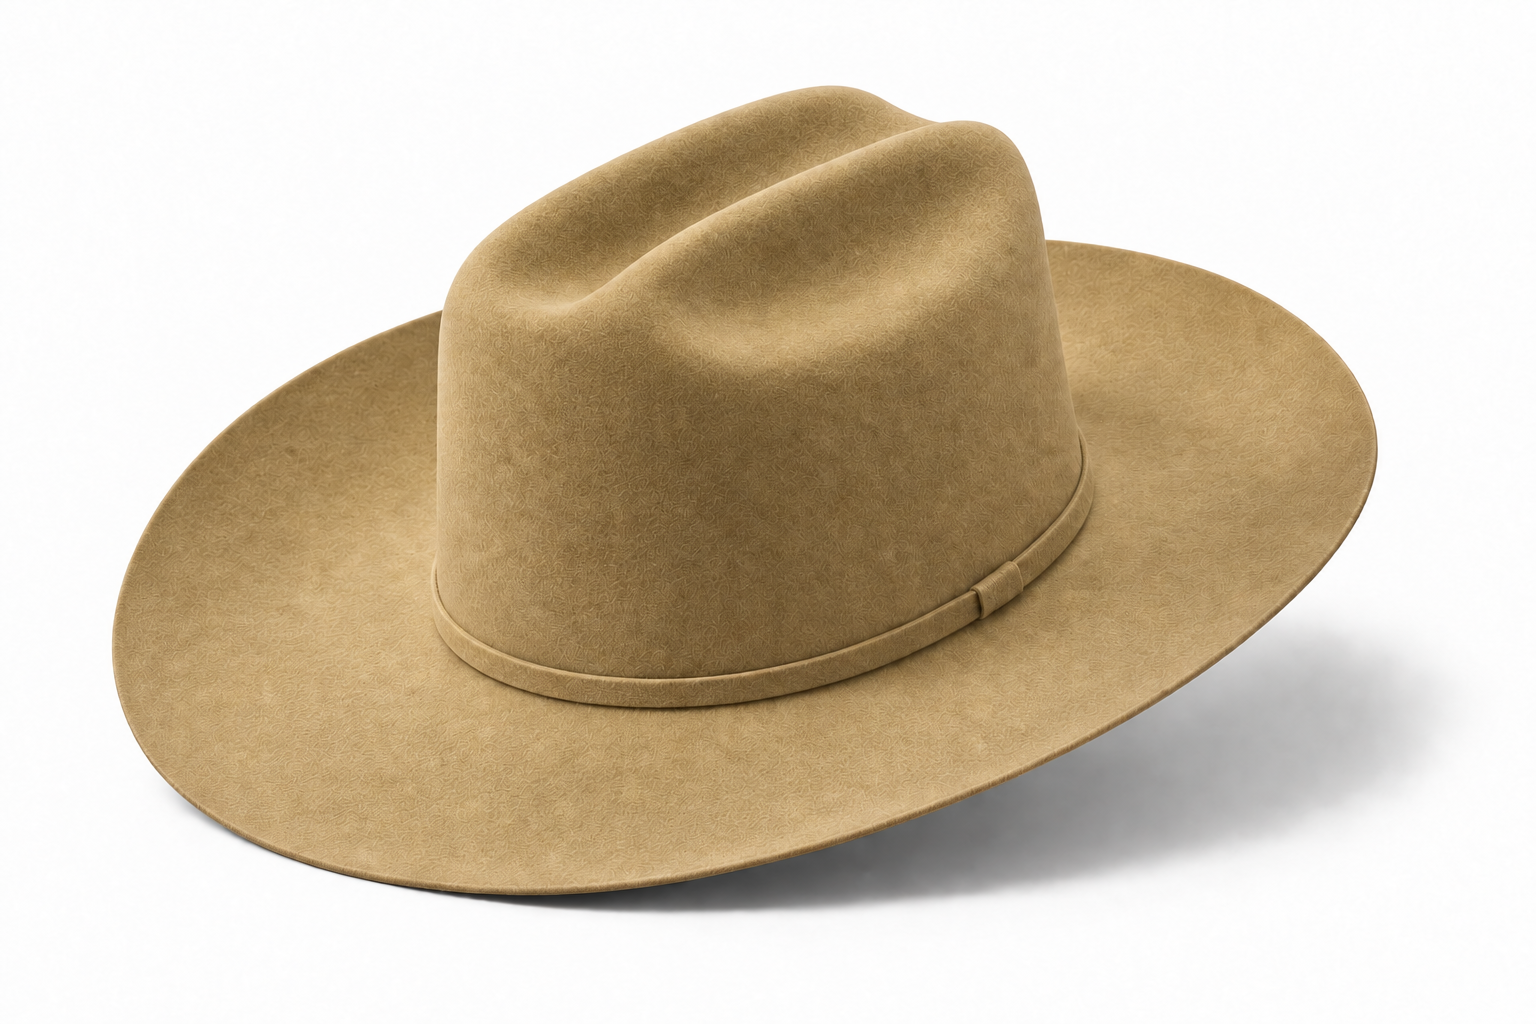
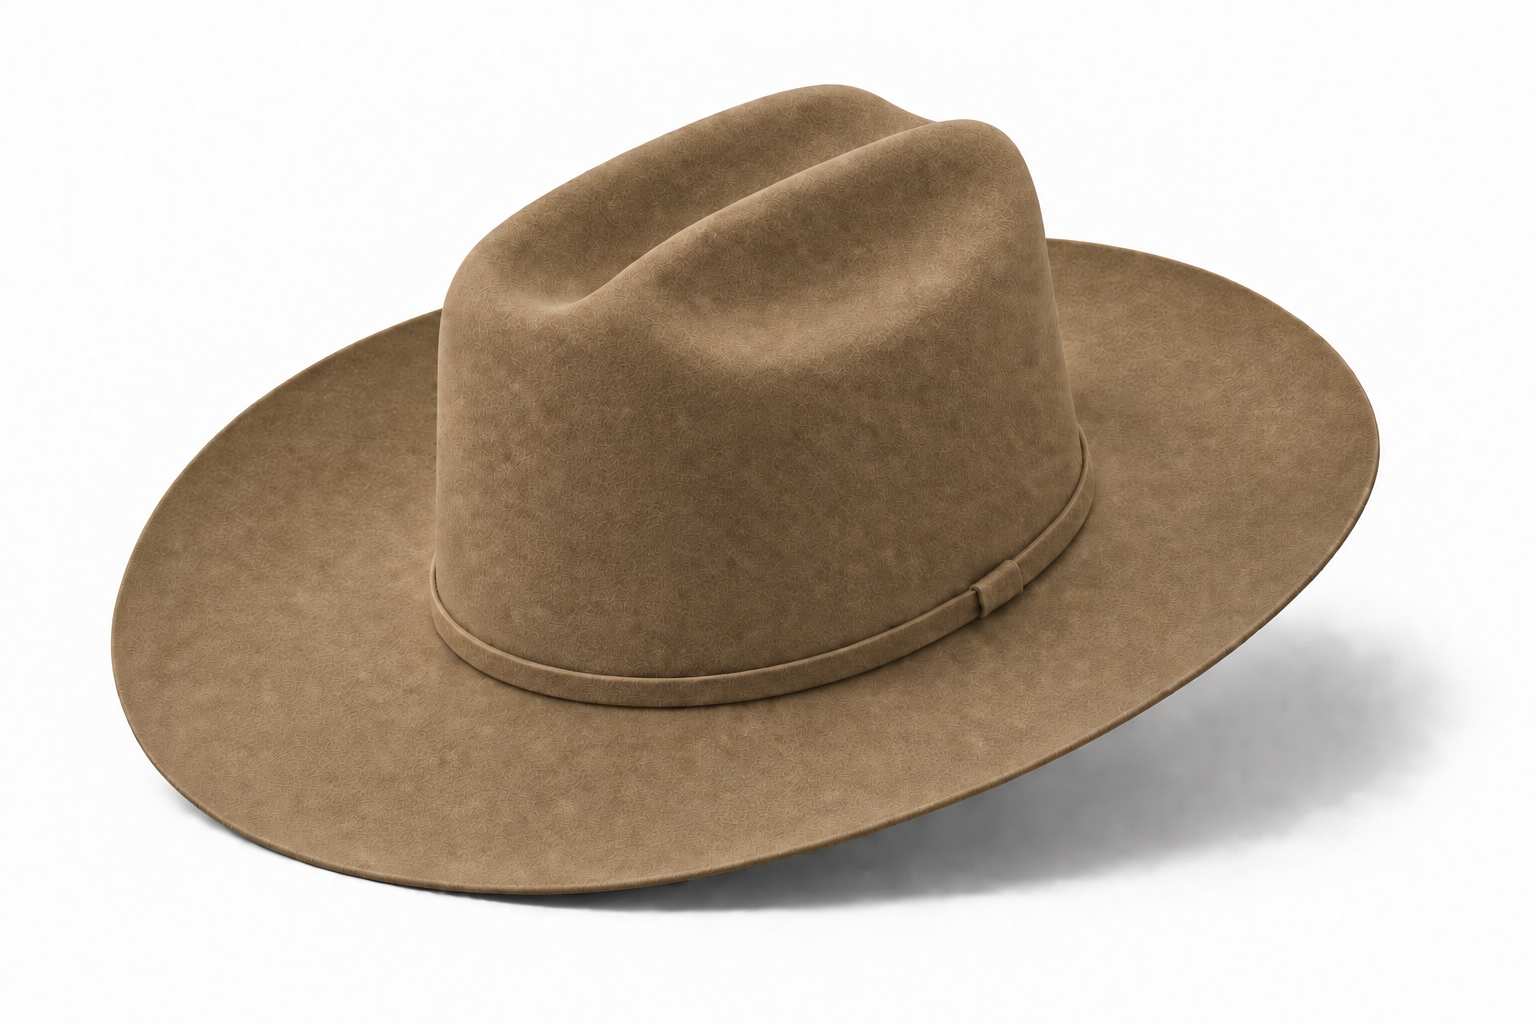
Refine Wheat felt color

diff --git a/index.html b/index.html
@@ -123,7 +123,7 @@
             <input class="selection-input" type="radio" name="color" value="Wheat" form="contact-form" />
             <span class="hat-card__number" aria-hidden="true">05</span>
             <img src="/assets/hat-tan.png" alt="Wheat Western felt hat" loading="lazy" />
-            <div class="hat-card__meta"><h3>Wheat</h3><span class="hat-card__rule"></span><span class="hat-card__description">Golden tan</span></div>
+            <div class="hat-card__meta"><h3>Wheat</h3><span class="hat-card__rule"></span><span class="hat-card__description">Muted straw</span></div>
           </label>
           <label class="hat-card">
             <input class="selection-input" type="radio" name="color" value="Juniper" form="contact-form" />
